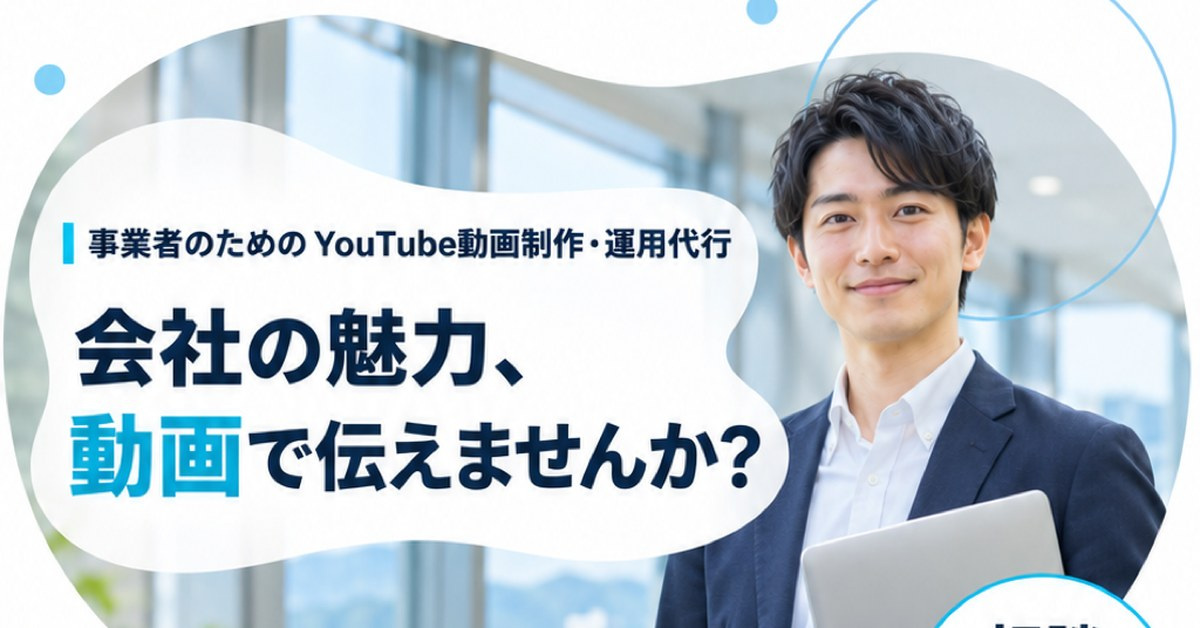
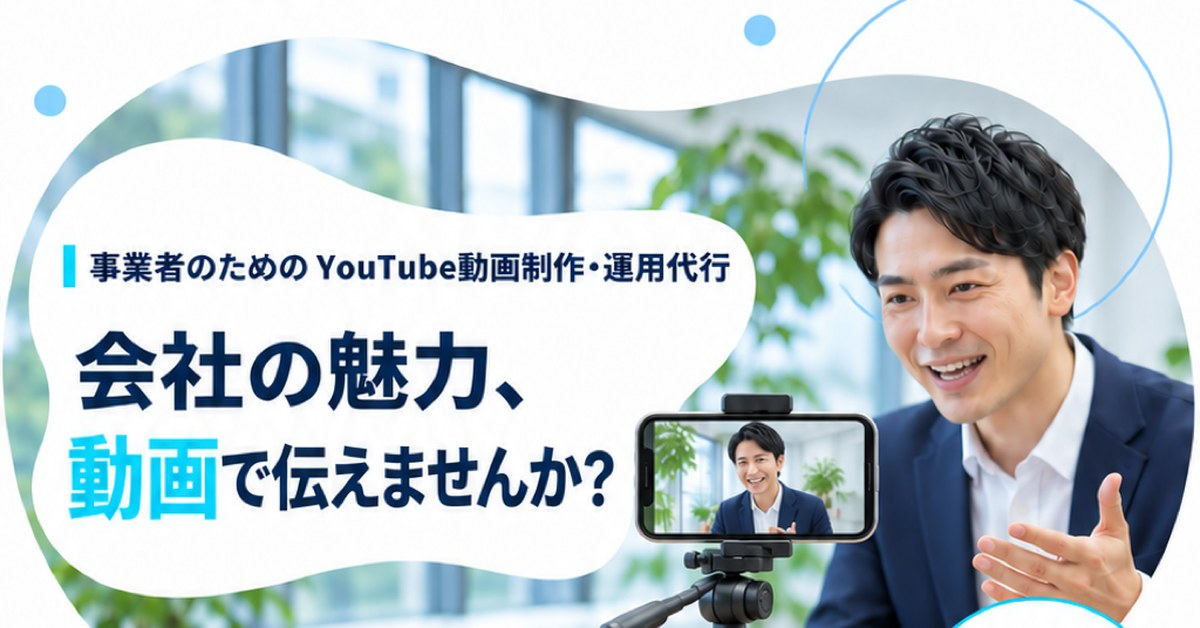
人物写真を減らし、イラストの担当者を重要な3か所に（FVは実写の撮影シーンに差し替え）
- FV：スマホに向かって話す男性の写真に。ロゴの2つ目の「>」を水色に
- お悩み・任せる理由・LINE相談：担当者のイラスト（LINE相談のスマホ画面は白、ロゴの「>」は水色）
- 運用代行とは・止まる理由：画像を外して文字だけに詰める
- 業種ごと：右上の人物写真を外す
- 任せる理由・料金：下の余白をそろえる
- SNS用のサムネイル画像（og.jpg）を新しいFVから作り直し

diff --git a/index.html b/index.html
@@ -18,16 +18,16 @@
 
 <section class="sec fv">
   <h1 class="sr">会社の魅力、動画で伝えませんか？</h1>
-  <img src="images/g-01-fv-1000.webp" width="1024" height="1792" alt="RunMate。事業者のための YouTube動画制作・運用代行。会社の魅力、動画で伝えませんか？認知を広げる、商品が売れる、採用につながる。相談無料。動画の制作本数1,000本以上、30社以上の事業者をご支援。">
+  <img src="images/h-01-fv-v2.webp" width="1024" height="1792" alt="RunMate。事業者のための YouTube動画制作・運用代行。会社の魅力、動画で伝えませんか？認知を広げる、商品が売れる、採用につながる。相談無料。動画の制作本数1,000本以上、30社以上の事業者をご支援。">
   <a class="imgbtn" href="https://line.me/R/ti/p/@417zbasn" target="_blank" rel="noopener" style="left:5.9%;top:74.1%;width:88.2%"><small>初月35%OFF</small>公式LINEで無料相談 →</a>
 </section>
 <section class="sec">
   <h2 class="sr">こんなお悩み、ありませんか？</h2>
-  <img src="images/g-01b-worry.webp" width="1024" height="1710" loading="lazy" alt="ひとつでも当てはまったら、このまま読み進めてください。新しいお客さまが、なかなか増えない。求人を出しても、応募が来ない。うちの良さが、うまく伝わっていない。チラシや広告を出しても、反応がうすい。InstagramやXの投稿が、すぐ流れてしまう。価格だけで、他と比べられてしまう。そのお悩み、YouTubeで解決しましょう。">
+  <img src="images/h-01b-worry.webp" width="1024" height="1710" loading="lazy" alt="ひとつでも当てはまったら、このまま読み進めてください。新しいお客さまが、なかなか増えない。求人を出しても、応募が来ない。うちの良さが、うまく伝わっていない。チラシや広告を出しても、反応がうすい。InstagramやXの投稿が、すぐ流れてしまう。価格だけで、他と比べられてしまう。そのお悩み、YouTubeで解決しましょう。">
 </section>
 <section class="sec">
   <h2 class="sr">YouTube運用代行とは、会社のYouTubeを代わりに続けること。</h2>
-  <img src="images/g-02-what.webp" width="1024" height="1630" loading="lazy" alt="あなたはスマホで撮るだけ。あとはまるごとお任せください。1 動画をつくる：何を撮るかを企画して、スマホの素材を編集・サムネイルまで仕上げます。2 YouTubeに出す：タイトルと説明文を整えて、決まった日に投稿します。3 見直して、次へ：見られ方の数字をチェックして、次の企画に活かします。毎月、くり返します。動画制作だけ・サムネイルだけのご依頼もできます。">
+  <img src="images/h-02-what.webp" width="1024" height="940" loading="lazy" alt="あなたはスマホで撮るだけ。あとはまるごとお任せください。1 動画をつくる：何を撮るかを企画して、スマホの素材を編集・サムネイルまで仕上げます。2 YouTubeに出す：タイトルと説明文を整えて、決まった日に投稿します。3 見直して、次へ：見られ方の数字をチェックして、次の企画に活かします。毎月、くり返します。動画制作だけ・サムネイルだけのご依頼もできます。">
 </section>
 <section class="sec">
   <h2 class="sr">なぜ今、YouTubeなのか。</h2>
@@ -35,7 +35,7 @@
 </section>
 <section class="sec">
   <h2 class="sr">やるべきなのは、分かっているけど。</h2>
-  <img src="images/g-05-pain.webp" width="1024" height="1633" loading="lazy" alt="YouTubeが止まってしまう理由は、だいたい同じです。1 何を撮ればいいか、企画が思いつかない。2 本業が忙しくて、編集の時間がとれない。3 投稿しても、成果につながっているか分からない。その悩み、まとめて任せられます。">
+  <img src="images/h-05-pain.webp" width="1024" height="1336" loading="lazy" alt="YouTubeが止まってしまう理由は、だいたい同じです。1 何を撮ればいいか、企画が思いつかない。2 本業が忙しくて、編集の時間がとれない。3 投稿しても、成果につながっているか分からない。その悩み、まとめて任せられます。">
 </section>
 <section class="sec">
   <h2 class="sr">どんな動画に、仕上がるの？</h2>
@@ -43,7 +43,7 @@
 </section>
 <section class="sec">
   <h2 class="sr">業種ごとに、こんな使い方があります。</h2>
-  <img src="images/g-06b-usecase.webp" width="1024" height="1719" loading="lazy" alt="お店や会社の数だけ、伝えられることがあります。飲食店：看板メニューのこだわり、仕込みや厨房の裏側（集客）。学習塾：勉強法やテスト対策の解説、授業や教室の雰囲気（生徒募集）。工務店：完成した家のルームツアー、家づくりの基礎知識（集客）。美容室：髪型のセットのしかた、スタッフの紹介（集客・採用）。整体院：自宅でできるストレッチ、体の悩みのQ&amp;A（集客）。士業：税金や相続のよくある疑問、事務所と先生の人柄（集客）。どの業種でも、採用動画にも使えます。社員インタビュー・1日の仕事紹介・職場の雰囲気。">
+  <img src="images/h-06b-usecase.webp" width="1024" height="1719" loading="lazy" alt="お店や会社の数だけ、伝えられることがあります。飲食店：看板メニューのこだわり、仕込みや厨房の裏側（集客）。学習塾：勉強法やテスト対策の解説、授業や教室の雰囲気（生徒募集）。工務店：完成した家のルームツアー、家づくりの基礎知識（集客）。美容室：髪型のセットのしかた、スタッフの紹介（集客・採用）。整体院：自宅でできるストレッチ、体の悩みのQ&amp;A（集客）。士業：税金や相続のよくある疑問、事務所と先生の人柄（集客）。どの業種でも、採用動画にも使えます。社員インタビュー・1日の仕事紹介・職場の雰囲気。">
 </section>
 <div class="midcta">
   <p><span>無料相談で、</span><span>あなたの会社に合う企画案をご提案します</span></p>
@@ -55,11 +55,11 @@
 </section>
 <section class="sec">
   <h2 class="sr">RunMateに任せる理由は、3つ。</h2>
-  <img src="images/g-09-reason-1000.webp" width="1024" height="1732" loading="lazy" alt="1 目的から逆算して企画する。2 頼む範囲を、自由に選べる。3 数字を見て、次の1本に活かす。動画編集代行との違い：よくある動画編集の外注は編集だけ。RunMateは、何を撮るか考える・編集・サムネイル・投稿・数字の見直しまで。数字で見る、RunMate。動画の制作本数1,000本以上、ご支援した事業者30社以上、対応してきた業種10業種以上。">
+  <img src="images/h-09-reason-ill-v2.webp" width="1024" height="1696" loading="lazy" alt="1 目的から逆算して企画する。2 頼む範囲を、自由に選べる。3 数字を見て、次の1本に活かす。動画編集代行との違い：よくある動画編集の外注は編集だけ。RunMateは、何を撮るか考える・編集・サムネイル・投稿・数字の見直しまで。数字で見る、RunMate。動画の制作本数1,000本以上、ご支援した事業者30社以上、対応してきた業種10業種以上。">
 </section>
 <section class="sec">
   <h2 class="sr">頼み方は、3つから選べます。</h2>
-  <img src="images/g-11-price-3plans-v6.webp" width="1024" height="2478" loading="lazy" alt="料金。頼み方は、3つから選べます。まずは1本で仕上がりを見てから、毎月の運用に進むこともできます。まずは1本：動画制作だけ 1本3万円〜（税別）。撮った素材を、見やすい動画に仕上げます。企画と投稿は、ご自身で行います。サムネイルだけ：1枚5千円〜。おすすめ　毎月続けたい方に　スタンダードプラン：月額15万円（税別）、長い動画 月4本＋ショート動画 月4本。プランの内容：チャンネル設計、企画、台本、動画制作、サムネイル制作、投稿、分析、月次レポート、月次ミーティング。撮影もおまかせしたい方に　プレミアムプラン：月額38万円（税別）。スタンダードプランの内容すべてに加えて、長い動画・ショート動画を月8本ずつに、出張撮影 月1回（RunMateスタッフが伺います）。出張撮影は全国に伺います。交通費は別途かかります。はじめるときの初期費用0円。地域を問わず全国対応。期間のしばりなし、最低契約なし。参考：料金を公開している運用代行13社では、いちばん多い価格帯が月38万〜50万円で、初期費用が別にかかる会社が多くなっています。本数・含まれる作業・撮影の条件は、会社ごとに異なります（各社の公開情報より・税別）。詳しい料金は、LINEの無料相談でご案内します。">
+  <img src="images/h-11-price.webp" width="1024" height="2448" loading="lazy" alt="料金。頼み方は、3つから選べます。まずは1本で仕上がりを見てから、毎月の運用に進むこともできます。まずは1本：動画制作だけ 1本3万円〜（税別）。撮った素材を、見やすい動画に仕上げます。企画と投稿は、ご自身で行います。サムネイルだけ：1枚5千円〜。おすすめ　毎月続けたい方に　スタンダードプラン：月額15万円（税別）、長い動画 月4本＋ショート動画 月4本。プランの内容：チャンネル設計、企画、台本、動画制作、サムネイル制作、投稿、分析、月次レポート、月次ミーティング。撮影もおまかせしたい方に　プレミアムプラン：月額38万円（税別）。スタンダードプランの内容すべてに加えて、長い動画・ショート動画を月8本ずつに、出張撮影 月1回（RunMateスタッフが伺います）。出張撮影は全国に伺います。交通費は別途かかります。はじめるときの初期費用0円。地域を問わず全国対応。期間のしばりなし、最低契約なし。参考：料金を公開している運用代行13社では、いちばん多い価格帯が月38万〜50万円で、初期費用が別にかかる会社が多くなっています。本数・含まれる作業・撮影の条件は、会社ごとに異なります（各社の公開情報より・税別）。詳しい料金は、LINEの無料相談でご案内します。">
 </section>
 <div class="midcta">
   <p><span>どの頼み方が合うか、</span><span>そのままご相談いただけます</span></p>
@@ -71,7 +71,7 @@
 </section>
 <section class="sec" id="contact">
   <h2 class="sr">まずは、LINEで気軽にご相談を。</h2>
-  <img src="images/g-13-cta.webp" width="1024" height="1705" loading="lazy" alt="1 LINEで相談を送る、2 無料ヒアリング、3 企画とプランのご提案（ここまで無料）、4 スマホで撮って送るだけ。YouTubeを、会社の力に。相談だけでも大丈夫です。無理な営業はいたしません。">
+  <img src="images/h-13-cta-v2.webp" width="1024" height="1705" loading="lazy" alt="1 LINEで相談を送る、2 無料ヒアリング、3 企画とプランのご提案（ここまで無料）、4 スマホで撮って送るだけ。YouTubeを、会社の力に。相談だけでも大丈夫です。無理な営業はいたしません。">
   <a class="imgbtn" href="https://line.me/R/ti/p/@417zbasn" target="_blank" rel="noopener" style="left:5.9%;top:82.3%;width:88.2%"><small>初月35%OFF</small>公式LINEで無料相談 →</a>
 </section>
 
